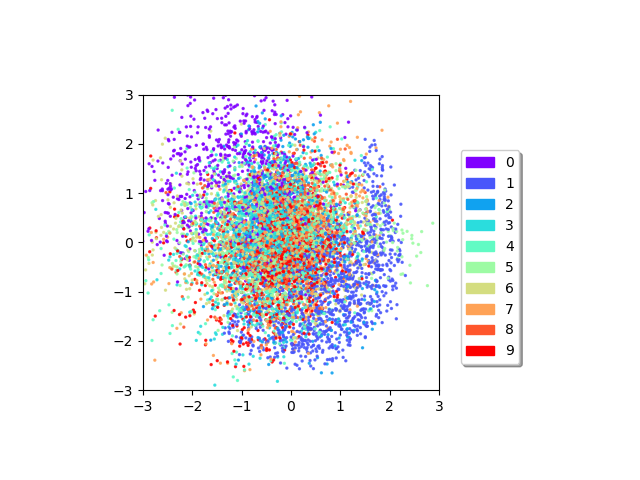
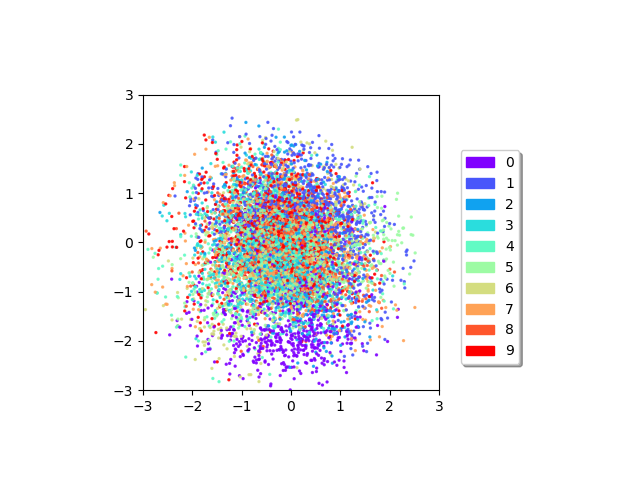
Added new Plots

Changed region(s): [[0.2188, 0.1875, 0.6562, 0.8125]]

diff --git a/semisupervised_aae_deterministic.py b/semisupervised_aae_deterministic.py
@@ -42,3 +42,158 @@ train_dataset = tf.data.Dataset.from_tensor_slices((mnist.x_train, mnist.y_train
 train_dataset = train_dataset.shuffle(buffer_size=train_buf)
 train_dataset = train_dataset.batch(batch_size)
 
+#creating the model parts
+aae = models.SemiSupervisedDeterministic()
+
+encoder = aae.encoder
+decoder = aae.decoder
+discriminator_labels = aae.discriminator_label
+discriminator_style = aae.discriminator_label
+
+
+encoder.summary()
+decoder.summary()
+discriminator_labels.summary()
+discriminator_style.summary()
+
+# Loss Function
+ae_loss_weight = 1.
+gen_loss_weight = 1.
+dc_loss_weight = 1.
+
+cross_entropy = tf.keras.losses.BinaryCrossentropy(from_logits=True)
+mse = tf.keras.losses.MeanSquaredError()
+accuracy = tf.keras.metrics.BinaryAccuracy()
+
+def autoencoder_loss(inputs, reconstruction, loss_weight):
+    return loss_weight * mse(inputs, reconstruction)
+
+def discriminator_loss(real_output, fake_output, loss_weight):
+    loss_real = cross_entropy(tf.ones_like(real_output), real_output)
+    loss_fake = cross_entropy(tf.zeros_like(fake_output), fake_output)
+    return loss_weight * (loss_fake + loss_real)
+
+def generator_loss(fake_output, loss_weight):
+    return loss_weight * cross_entropy(tf.ones_like(fake_output), fake_output)
+
+base_lr = 0.00025
+max_lr = 0.0025
+
+n_samples = 60000
+step_size = 2 * np.ceil(n_samples / batch_size)
+global_step = 0
+
+# Define optimizers
+ae_optimizer = tf.keras.optimizers.Adam(lr=base_lr)
+dc_optimizer = tf.keras.optimizers.Adam(lr=base_lr)
+gen_optimizer = tf.keras.optimizers.Adam(lr=base_lr)
+
+n_epochs = 601
+
+# Training
+@tf.function
+def train_step(batch_x):
+    # Autoencoder
+    with tf.GradientTape() as ae_tape:
+        encoder_output = encoder(batch_x, training=True)
+        decoder_output = decoder(encoder_output, training=True)
+
+        # Autoencoder loss
+        ae_loss = autoencoder_loss(batch_x, decoder_output, ae_loss_weight)
+
+    ae_grads = ae_tape.gradient(ae_loss, encoder.trainable_variables + decoder.trainable_variables)
+    ae_optimizer.apply_gradients(zip(ae_grads, encoder.trainable_variables + decoder.trainable_variables))
+
+    # Discriminator
+    with tf.GradientTape() as dc_tape:
+        real_distribution = tf.random.normal([batch_x.shape[0], aae.z_dim], mean=0.0, stddev=1.0)
+        encoder_output = encoder(batch_x, training=True)
+
+        dc_real = discriminator_style(real_distribution, training=True)
+        dc_fake = discriminator_style(encoder_output, training=True)
+
+        # Discriminator Loss
+        dc_loss = discriminator_loss(dc_real, dc_fake, dc_loss_weight)
+
+        # Discriminator Acc
+        dc_acc = accuracy(tf.concat([tf.ones_like(dc_real), tf.zeros_like(dc_fake)], axis=0),
+                          tf.concat([dc_real, dc_fake], axis=0))
+
+    dc_grads = dc_tape.gradient(dc_loss, discriminator_style.trainable_variables)
+    dc_optimizer.apply_gradients(zip(dc_grads, discriminator_style.trainable_variables))
+
+    # Generator (Encoder)
+    with tf.GradientTape() as gen_tape:
+        encoder_output = encoder(batch_x, training=True)
+        dc_fake = discriminator_style(encoder_output, training=True)
+
+        # Generator loss
+        gen_loss = generator_loss(dc_fake, gen_loss_weight)
+
+    gen_grads = gen_tape.gradient(gen_loss, encoder.trainable_variables)
+    gen_optimizer.apply_gradients(zip(gen_grads, encoder.trainable_variables))
+
+    return ae_loss, dc_loss, dc_acc, gen_loss
+
+for epoch in range(n_epochs):
+    start = time.time()
+
+    if epoch in [30, 60, 90]:
+        base_lr = base_lr/2
+        max_lr = max_lr/2
+        step_size = step_size/2
+
+
+    epoch_ae_loss_avg = tf.metrics.Mean()
+    epoch_dc_loss_avg = tf.metrics.Mean()
+    epoch_dc_acc_avg = tf.metrics.Mean()
+    epoch_gen_loss_avg = tf.metrics.Mean()
+
+    for batch, (batch_x) in enumerate(train_dataset):
+        # -------------------------------------------------------------------------------------------------------------
+        # Calculate cyclic learning rate
+        global_step = global_step + 1
+        cycle = np.floor(1 + global_step / (2 * step_size))
+        x_lr = np.abs(global_step / step_size - 2 * cycle + 1)
+        clr = base_lr + (max_lr - base_lr) * max(0, 1 - x_lr)
+        ae_optimizer.lr = clr
+        dc_optimizer.lr = clr
+        gen_optimizer.lr = clr
+
+        ae_loss, dc_loss, dc_acc, gen_loss = train_step(batch_x)
+
+        epoch_ae_loss_avg(ae_loss)
+        epoch_dc_loss_avg(dc_loss)
+        epoch_dc_acc_avg(dc_acc)
+        epoch_gen_loss_avg(gen_loss)
+
+    epoch_time = time.time() - start
+    print('{:4d}: TIME: {:.2f} ETA: {:.2f} AE_LOSS: {:.4f} DC_LOSS: {:.4f} DC_ACC: {:.4f} GEN_LOSS: {:.4f}' \
+          .format(epoch, epoch_time,
+                  epoch_time * (n_epochs - epoch),
+                  epoch_ae_loss_avg.result(),
+                  epoch_dc_loss_avg.result(),
+                  epoch_dc_acc_avg.result(),
+                  epoch_gen_loss_avg.result()))
+
+    if epoch % 100 == 0:
+        # Latent space of test set
+        x_test_encoded = encoder(mnist.x_test, training=False)
+        label_list = list(mnist.y_test)
+
+        fig = plt.figure()
+        classes = set(label_list)
+        colormap = plt.cm.rainbow(np.linspace(0, 1, len(classes)))
+        kwargs = {'alpha': 0.8, 'c': [colormap[i] for i in label_list]}
+        ax = plt.subplot(111, aspect='equal')
+        box = ax.get_position()
+        ax.set_position([box.x0, box.y0, box.width * 0.8, box.height])
+        handles = [mpatches.Circle((0, 0), label=class_, color=colormap[i])
+                   for i, class_ in enumerate(classes)]
+        ax.legend(handles=handles, shadow=True, bbox_to_anchor=(1.05, 0.45), fancybox=True, loc='center left')
+        plt.scatter(x_test_encoded[:, 0], x_test_encoded[:, 1], s=2, **kwargs)
+        ax.set_xlim([-3, 3])
+        ax.set_ylim([-3, 3])
+
+        plt.savefig(latent_space_dir / ('epoch_%d.png' % epoch))
+        plt.close('all')

diff --git a/lib/models.py b/lib/models.py
@@ -122,6 +122,11 @@ class SemiSupervisedDeterministic:
         self.z_dim = 2
         self.n_labels = 10
 
+        self.encoder = self.create_encoder_semi()
+        self.decoder = self.create_decoder_semi()
+        self.discriminator_label = self.create_discriminator_label()
+        self.discriminator_style = self.create_discriminator_style()
+
     def create_encoder_semi(self):
         inputs = tf.keras.Input(shape=(self.image_size,))
         x = tf.keras.layers.Dense(self.h_dim)(inputs)

diff --git a/unsupervsied_aae_deterministic.py b/unsupervsied_aae_deterministic.py
@@ -27,7 +27,7 @@ np.random.seed(random_seed)
 output_dir = ROOT_PATH / 'output'
 output_dir.mkdir(exist_ok=True)
 
-experiment_dir = output_dir / 'unsup'
+experiment_dir = output_dir / 'unsupervisied_aae'
 experiment_dir.mkdir(exist_ok=True)
 
 latent_space_dir = experiment_dir / 'latent_space'
@@ -101,7 +101,7 @@ n_samples = 60000
 step_size = 2 * np.ceil(n_samples / batch_size)
 global_step = 0
 
-n_epochs = 600
+n_epochs = 601
 
 # Optimizier
 ae_optimizer = tf.keras.optimizers.Adam(lr=base_lr)
